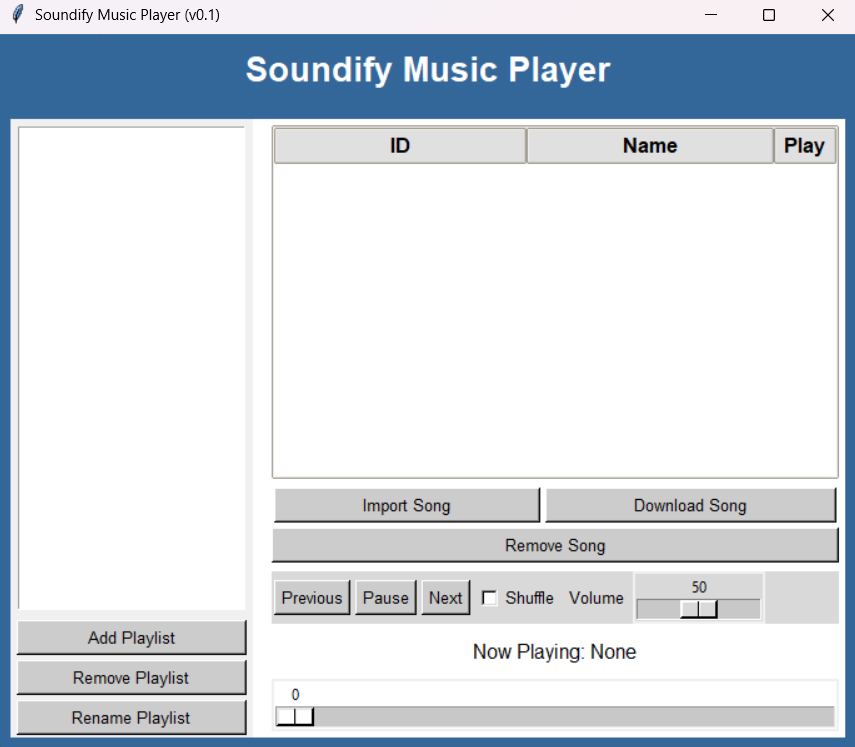
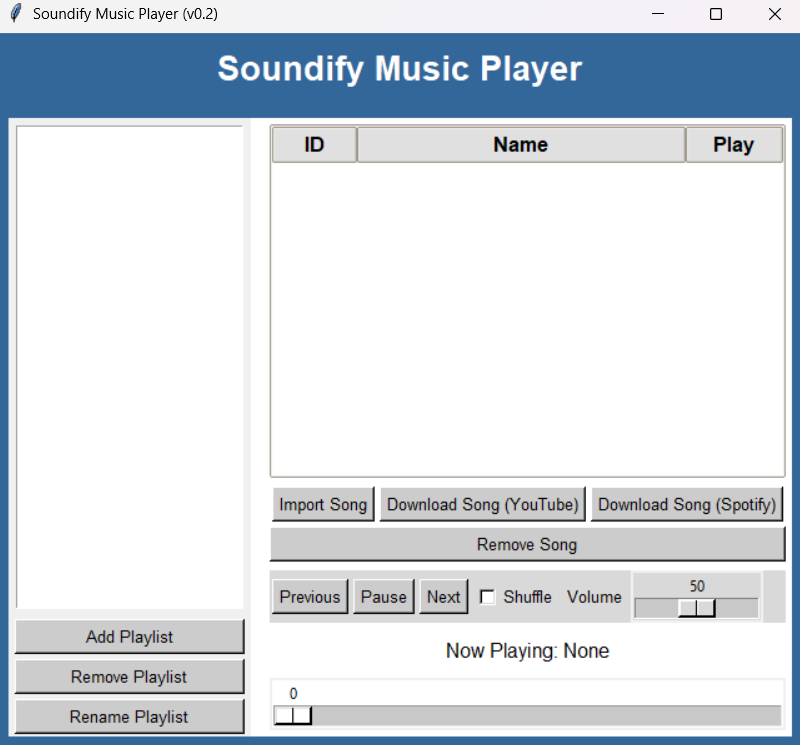
Patch v0.2

diff --git a/docs/README.md b/docs/README.md
@@ -12,18 +12,15 @@ Soundify is a Song player without any limitations or ads. Enjoy a seamless music
 - **Volume Control**: Increase or decrease audio easily.
 - **Playback Modes**: Enjoy your music with either a linear (sequential) or shuffle (random) playback system.
 - **YouTube Downloads**: Download songs directly from YouTube.
+- **Spotify Downloads**: Download songs directly from Spotify (playlists or songs).
 - **Offline Availability**: Since everything works locally, you can listen offline.
 - **Ad-Free**: Enjoy your music without any interruptions from ads.
 
 ## Overview
-Soundify is designed to provide a user-friendly interface where you can manage your music library effortlessly. Whether you're creating a new playlist or downloading your favorite tracks from YouTube, Soundify offers a streamlined and efficient experience.
+Soundify is designed to provide a user-friendly interface where you can manage your music library effortlessly. Whether you're creating a new playlist or downloading your favorite tracks from YouTube or Spotify, Soundify offers a streamlined and efficient experience.
 
 ## Getting Started
 1. **Installation**: Follow the installation guide provided in the [documentation](Installation.md).
-2. **Usage**: Start the application
-
-## Contributing
-Contributions are welcome! Please see the contribution guidelines for more details on how to help improve Soundify.
 
 ## License
 This project is licensed under the terms of the [MIT License](LICENSE).

diff --git a/docs/IT/README_it.md b/docs/IT/README_it.md
@@ -12,6 +12,7 @@ Soundify è un song player senza limiti o pubblicità. Goditi un'esperienza musi
 - **Controllo del Volume**: Aumenta o diminuisci l'audio in modo semplice.
 - **Modalità di Riproduzione**: Ascolta la tua musica in modalità lineare (sequenziale) o shuffle (casuale).
 - **Download da YouTube**: Scarica direttamente le canzoni da YouTube.
+- **Download da Spotify**: Scarica direttamente le canzoni da Spotify (playlist o canzoni).
 - **Disponibilità Offline**: Tutto funziona in locale, per cui puoi ascoltare la musica anche offline.
 - **Nessuna Pubblicità**: Ascolta la tua musica senza interruzioni da pubblicità.
 
@@ -21,9 +22,6 @@ Soundify è pensato per offrire un'interfaccia intuitiva dove gestire facilmente
 ## Come Iniziare
 1. **Installazione**: Segui la guida all'installazione presente nella [documentazione](Installation).
 2. **Utilizzo**: Avvia l'applicazione.
-
-## Contribuire
-I contributi sono benvenuti! Consulta le linee guida per contribuire per ulteriori dettagli su come migliorare Soundify.
 
 ## Licenza
 Questo progetto è rilasciato sotto i termini della [Licenza MIT](LICENSE).

diff --git a/docs/Installation.md b/docs/Installation.md
@@ -1,3 +1,4 @@
-# Work in Progress
+# Installation
 
-- installer
+- Run `setup.bat`
+- after the setup use `start.bat` to start the application
